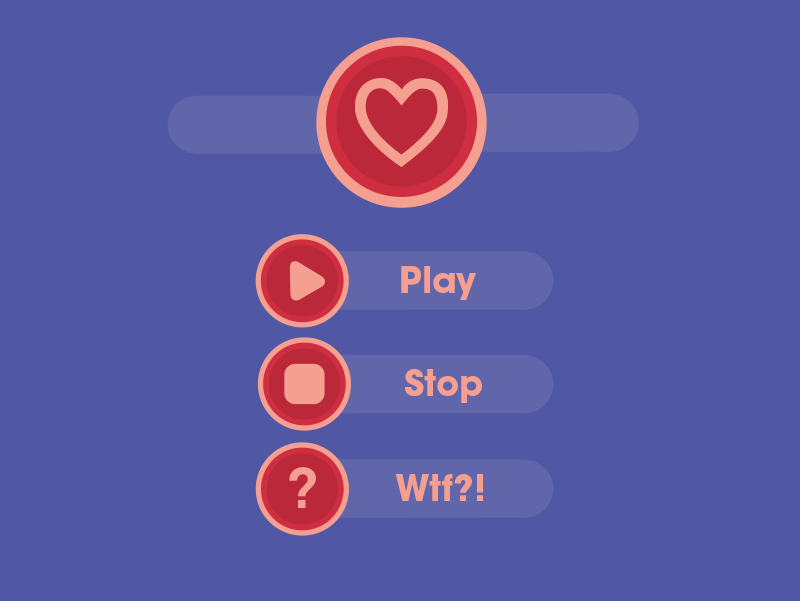
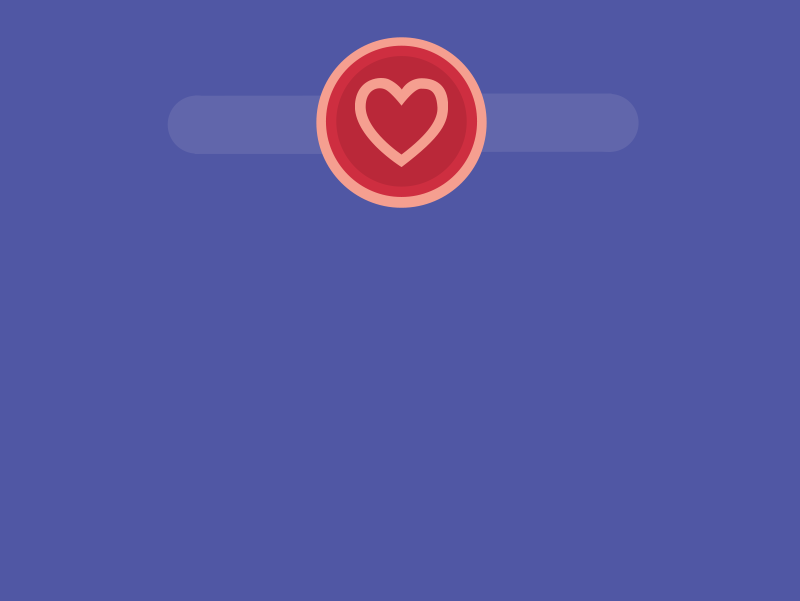
menu

diff --git a/src/main/java/nl/sest/gamejam/controller/MenuGameState.java b/src/main/java/nl/sest/gamejam/controller/MenuGameState.java
@@ -41,13 +41,13 @@ public class MenuGameState extends BasicGameState implements ComponentListener {
 	@Override
 	public void init(GameContainer container, StateBasedGame game) throws SlickException {
 		image = new Image("images/menu/Menu_A.png").getScaledCopy(container.getWidth(), container.getHeight());
-		Image startButtonImage = new Image("images/menu/Menu_Button_Play.png").getScaledCopy(1.5f);
-		Image endButtonImage = new Image("images/menu/Menu_Button_Stop.png").getScaledCopy(1.5f);
-		Image wtfButtonImage = new Image("images/menu/Menu_Button_Wtf.png").getScaledCopy(1.5f);
+		Image startButtonImage = new Image("images/menu/Menu_Button_Play.png");
+		Image endButtonImage = new Image("images/menu/Menu_Button_Stop.png");
+		Image wtfButtonImage = new Image("images/menu/Menu_Button_Wtf.png");
 
-		startButton = new MouseOverArea(container, startButtonImage, 500, 350, this);
-		endButton = new MouseOverArea(container, endButtonImage, 500, 500, this);
-		wtfButton = new MouseOverArea(container, wtfButtonImage, 500, 650, this);
+		startButton = new MouseOverArea(container, startButtonImage, 350, 300, this);
+		endButton = new MouseOverArea(container, endButtonImage, 350, 400, this);
+		wtfButton = new MouseOverArea(container, wtfButtonImage, 350, 500, this);
 	}
 
 	@Override

diff --git a/src/main/java/nl/sest/gamejam/controller/SponsorGameState.java b/src/main/java/nl/sest/gamejam/controller/SponsorGameState.java
@@ -16,7 +16,7 @@ import org.newdawn.slick.state.transition.FadeInTransition;
 public class SponsorGameState extends BasicGameState {
 
 	private Image image;
-	boolean isRenderered;
+	boolean isRendered;
 
 	@Override
 	public int getID() {
@@ -25,7 +25,7 @@ public class SponsorGameState extends BasicGameState {
 
 	@Override
 	public void init(GameContainer container, StateBasedGame game) throws SlickException {
-		image = new Image("images/credits2013_new.png");
+		image = new Image("images/credits2013_new.png").getScaledCopy(0.7f);
 	}
 
 	@Override
@@ -36,12 +36,12 @@ public class SponsorGameState extends BasicGameState {
 		} catch (InterruptedException e) {
 			throw new RuntimeException("Interrupted");
 		}
-		isRenderered = true;
+		isRendered = true;
 	}
 
 	@Override
 	public void update(GameContainer container, StateBasedGame game, int delta) throws SlickException {
-		if (isRenderered) {
+		if (isRendered) {
 			game.enterState(1, new EmptyTransition(), new FadeInTransition());
 		}
 	}
